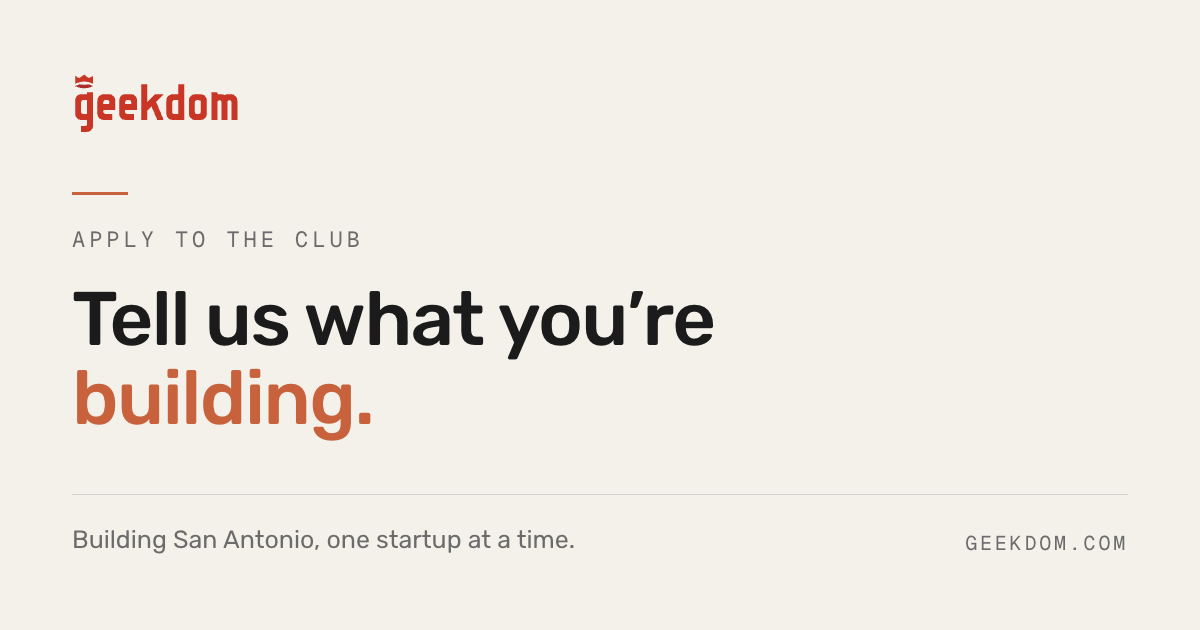
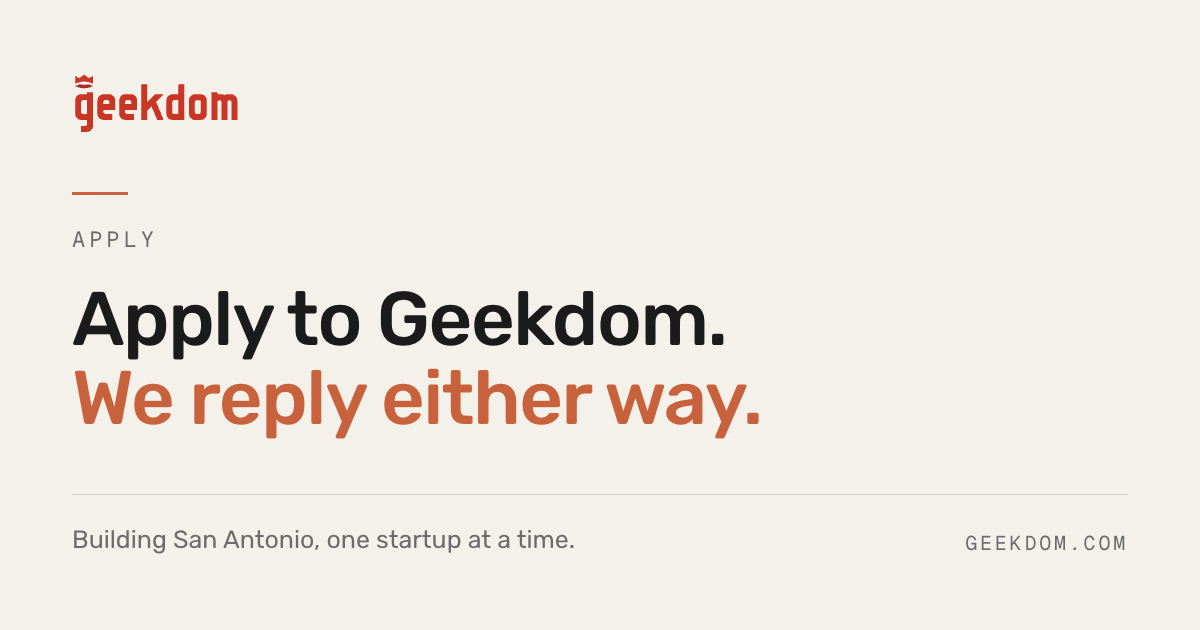
Bring /apply back to the source copy, square the fields, and fix the staff sign-in loop
/apply
- Header and opening are Source Copy v1 verbatim: "Apply to Geekdom.",
  the Fraunces sub-headline, and one paragraph. Removes the price, the
  explanation of why there's an application, and "five minutes" (the doc
  and /club say ten).
- Plainer form: "Your work" replaces "The part we actually read"; two
  written-here helper lines removed. The coworking checkbox stays — it
  feeds the admin view, the CSV export and the team email.
- Share card: "Apply to Geekdom. / We reply either way."

Fields
- Inputs, textareas, the combobox, the checkbox, the form error and the
  billing card are square, matching the buttons.

Staff sign-in
- proxy.ts no longer sends /admin/login to /admin on a cookie's presence
  alone. With an expired or revoked cookie that looped with the admin
  layout's redirect forever. The login page now verifies the session
  itself before skipping the form.

Changed region(s): [[0.0617, 0.4524, 0.6475, 0.6937], [0.1542, 0.3619, 0.3083, 0.3921]]

diff --git a/app/(site)/apply/page.tsx b/app/(site)/apply/page.tsx
@@ -7,7 +7,7 @@ import {
 } from "@/components/site/section";
 import { cn } from "@/lib/utils";
 import { ApplyForm } from "@/components/forms/apply-form";
-import { isPriceAnnounced, priceLabel } from "@/lib/membership";
+import { Editorial } from "@/components/site/editorial";
 
 export const metadata: Metadata = pageMetadata({
   ownCard: true,
@@ -20,48 +20,32 @@ export const metadata: Metadata = pageMetadata({
 export default function ApplyPage() {
   return (
     /*
-      NO MARK BESIDE THE FORM, and /apply is the page that corrected the rule
-      rather than the page that follows it.
-
-      The rule as first written was "the rail is for short task pages", and it
-      named this one. Two measurements say otherwise. The form is FOURTEEN
-      FIELDS, and the page's own subtitle promises it takes five minutes. The
-      shader was a requestAnimationFrame loop — it never settled. (The rail
-      is a flat mark now, but a form still wants the full width.)
-
-      SO THE DISTINCTION IS NOT LENGTH, IT IS WHETHER A PAGE HOLDS YOU. The 404
-      and the admin login are glanced at and left; a mark in dead space there
-      costs nobody anything. A form keeps somebody STATIONARY for minutes,
-      typing, with an animation looping in the corner of their eye — and this
-      is the one page on the site where that attention converts. It is the
-      worst possible place to put a competing moving object.
-
-      MOVING IT RIGHT WOULD NOT HELP, for the same reason it did not on the
-      letter. A right rail interrupts reading less because it falls after the
-      text, but nothing about peripheral motion over five minutes changes by
-      swapping which side it loops on.
-
-      And every instance of it is still borrowed against a sign-off the 2026
-      guide has not given: it bans gradients on the marks outright.
-
-      THE EYEBROW NAMES THE CLUB, because the page never did. The nav lists The
-      Club, Studio and Apply as peers, and /studio sends people here by name —
-      "come to a public event and apply to the Club" — while the word "Club"
-      appeared once in the rendered page, in the navbar. The Studio has no
-      application at all, so somebody arriving from it needs confirming they
-      are in the right place rather than inferring it from the price.
+      NO MARK BESIDE THE FORM. The 404, /account and the staff sign-in carry
+      a mark in a side rail; this page doesn't, because a fourteen-field form
+      keeps somebody here for ten minutes and wants the whole width and
+      nothing else in view.
     */
     <Section tone="bone">
+      {/*
+        THE SOURCE COPY'S HEADER AND OPENING, VERBATIM: eyebrow "APPLY",
+        headline "Apply to Geekdom.", the Fraunces sub-headline, and one
+        paragraph. It had been replaced with lines written here — "Tell us what
+        you're building", an explanation of why there's an application (which
+        Geekdom asked not to give), "about five minutes" (the doc and /club
+        say ten), and the price, which now lives only on /club.
+      */}
       <header className="mb-12 max-w-3xl">
-        <Eyebrow>Apply to the Club</Eyebrow>
+        <Eyebrow>Apply</Eyebrow>
         <h1 className={cn("mt-4", HEADING.heading, "text-graphite")}>
-          Tell us what you&rsquo;re <span className="text-clay">building.</span>
+          Apply to <span className="text-clay">Geekdom.</span>
         </h1>
-        <p className="mt-5 max-w-lg text-lg leading-relaxed text-muted-foreground">
-          Who&rsquo;s in the room is the whole point, so we read every
-          application properly. This takes about five minutes.
-          {isPriceAnnounced() &&
-            ` Membership is ${priceLabel()} — nothing is charged until you're accepted.`}
+        <Editorial className="mt-5 text-2xl leading-[1.4] text-graphite">
+          Membership is by application. We respond within two weeks.
+        </Editorial>
+        <p className="mt-6 max-w-lg text-lg leading-relaxed text-muted-foreground">
+          Geekdom is a members&rsquo; club for serious founders and builders
+          in San Antonio. The application takes about ten minutes. Our team
+          reads every application. We reply personally either way.
         </p>
       </header>
 

diff --git a/components/forms/apply-form.tsx b/components/forms/apply-form.tsx
@@ -150,9 +150,8 @@ export function ApplyForm() {
           {/*
             "WHO YOU ARE", NOT "YOU".
 
-            The three legends run You / Your company / The part we actually
-            read. The third has a voice; the first two were labels, and "You"
-            on its own is the thinnest of them — a pronoun where the others are
+            The legends run Who you are / Your company / Your work. "You" on
+            its own was the thinnest of them — a pronoun where the others are
             phrases.
 
             "Who you are" is the question the fields actually ask, it is
@@ -264,11 +263,16 @@ export function ApplyForm() {
         </Field>
       </fieldset>
 
-      {/* ── The part we actually read ──────────────────────────────── */}
+      {/* ── Your work ──────────────────────────────────────────────── */}
       <fieldset className={SECTION}>
         <legend className={LEGEND}>
           <span aria-hidden="true" className="h-px w-10 shrink-0 bg-clay" />
-          <span className="shrink-0">The part we actually read</span>
+          {/*
+            "Your work", not "The part we actually read" — that had a voice,
+            and it implied the other sections go unread. Plain and parallel:
+            Who you are / Your company / Your work.
+          */}
+          <span className="shrink-0">Your work</span>
           <span aria-hidden="true" className="h-px flex-1 bg-border" />
         </legend>
 
@@ -276,7 +280,7 @@ export function ApplyForm() {
           label="What are you building?"
           htmlFor="building"
           error={errors.building}
-          hint="A couple of sentences is plenty. Plain language beats a pitch."
+          hint="A couple of sentences is plenty."
           required
         >
           <Textarea
@@ -294,7 +298,6 @@ export function ApplyForm() {
           label="What do you need from the room?"
           htmlFor="needs"
           error={errors.needs}
-          hint="Who would you want to be sitting next to, and why now?"
           required
         >
           <Textarea
@@ -302,7 +305,7 @@ export function ApplyForm() {
             name="needs"
             required
             aria-invalid={Boolean(errors.needs)}
-            aria-describedby={errors.needs ? "needs-error" : "needs-hint"}
+            aria-describedby={errors.needs ? "needs-error" : undefined}
           />
         </Field>
 
@@ -318,7 +321,7 @@ export function ApplyForm() {
           <input
             type="checkbox"
             name="formerMember"
-            className="mt-0.5 h-4 w-4 rounded border-border text-clay focus-visible:ring-2 focus-visible:ring-clay"
+            className="mt-0.5 h-4 w-4 rounded-none border-border text-clay focus-visible:ring-2 focus-visible:ring-clay"
           />
           {/*
             NO "BEFORE THE TRANSITION". The field is right and stays — the
@@ -362,7 +365,7 @@ export function ApplyForm() {
       {formError && (
         <p
           role="alert"
-          className="rounded-lg border border-geekdom-red/30 bg-geekdom-red/5 px-4 py-3 text-sm text-geekdom-red-deep"
+          className="border border-geekdom-red/30 bg-geekdom-red/5 px-4 py-3 text-sm text-geekdom-red-deep"
         >
           {formError}
         </p>

diff --git a/components/ui/combobox.tsx b/components/ui/combobox.tsx
@@ -196,7 +196,7 @@ export function Combobox({
         onClick={() => (open ? close() : openList())}
         onKeyDown={onKeyDown}
         className={cn(
-          "flex h-11 w-full items-center justify-between rounded-lg border border-border bg-bone-light px-3.5 text-left text-base",
+          "flex h-11 w-full items-center justify-between rounded-none border border-border bg-bone-light px-3.5 text-left text-base",
           "focus-visible:outline-none focus-visible:ring-2 focus-visible:ring-clay focus-visible:ring-offset-1",
           "disabled:cursor-not-allowed disabled:opacity-50",
           invalid && "border-clay ring-1 ring-clay",
@@ -213,7 +213,7 @@ export function Combobox({
       </button>
 
       {open && (
-        <div className="absolute z-50 mt-1 w-full overflow-hidden rounded-lg border border-border bg-bone-light shadow-lg">
+        <div className="absolute z-50 mt-1 w-full overflow-hidden border border-border bg-bone-light shadow-lg">
           {showSearch && (
             <div className="border-b border-border p-2">
               <input
@@ -226,7 +226,7 @@ export function Combobox({
                 onKeyDown={onKeyDown}
                 placeholder={searchPlaceholder}
                 aria-label={searchPlaceholder}
-                className="h-9 w-full rounded-md bg-transparent px-2 text-sm outline-none placeholder:text-muted-foreground"
+                className="h-9 w-full bg-transparent px-2 text-sm outline-none placeholder:text-muted-foreground"
               />
             </div>
           )}
@@ -258,7 +258,7 @@ export function Combobox({
                     onPointerEnter={() => setActive(i)}
                     onClick={() => commit(option)}
                     className={cn(
-                      "flex cursor-pointer items-center justify-between gap-3 rounded-md px-3 py-2 text-sm",
+                      "flex cursor-pointer items-center justify-between gap-3 px-3 py-2 text-sm",
                       i === active && "bg-bone-light",
                       isSelected && "font-medium text-graphite",
                     )}

diff --git a/app/admin/login/page.tsx b/app/admin/login/page.tsx
@@ -1,4 +1,6 @@
 import { Suspense } from "react";
+import { redirect } from "next/navigation";
+import { getSessionUser } from "@/lib/auth/session";
 import type { Metadata } from "next";
 import Link from "next/link";
 import { ArrowLeft } from "lucide-react";
@@ -10,7 +12,16 @@ export const metadata: Metadata = {
   robots: { index: false, follow: false },
 };
 
-export default function LoginPage() {
+/*
+  A VERIFIED SESSION SKIPS THE FORM; A STALE ONE SEES IT. This check used to
+  live in proxy.ts, which can only see that a cookie exists — so an expired
+  cookie bounced between here and /admin forever. `getSessionUser()` verifies
+  it (and returns null rather than throwing when it can't), so only a real
+  session is sent inside. Signing in again overwrites the stale cookie.
+*/
+export default async function LoginPage() {
+  if (await getSessionUser()) redirect("/admin");
+
   return (
     <main className="flex-1 bg-bone">
       {/*

diff --git a/lib/og.ts b/lib/og.ts
@@ -119,15 +119,12 @@ export const OG_CARDS: Record<string, OgCard> = {
 
 
   apply: {
-    eyebrow: "Apply to the Club",
-    /*
-      THE PAGE'S OWN H1. It said "working on." while the h1 said "building." —
-      the same sentence ending two different ways, shown side by side in every
-      unfurl and search result. Neither was wrong; having both was.
-    */
-    lines: ["Tell us what you\u2019re", "building."],
+    eyebrow: "Apply",
+    // The source copy's headline, then its sub-headline cut to fit. The card
+    // and the page must not make two different claims side by side.
+    lines: ["Apply to Geekdom.", "We reply either way."],
     out: "app/(site)/apply/opengraph-image.png",
-    alt: "Apply to the Club at Geekdom — one membership, by application, on the third floor in San Antonio.",
+    alt: "Apply to Geekdom — membership is by application, and we respond within two weeks.",
   },
 
 

diff --git a/proxy.ts b/proxy.ts
@@ -26,10 +26,16 @@ export function proxy(request: NextRequest) {
     return NextResponse.redirect(url);
   }
 
-  // Already signed in and hitting the login page — send them inside.
-  if (hasSession && isLogin) {
-    return NextResponse.redirect(new URL("/admin", request.url));
-  }
+  /*
+    NO "ALREADY SIGNED IN? GO INSIDE" RULE HERE, and there must not be one.
+    This redirected /admin/login to /admin whenever a cookie EXISTED — but
+    existing is all the proxy can see. An expired or revoked cookie passed
+    here, failed real verification in the admin layout, got sent to
+    /admin/login, and bounced straight back: an infinite redirect loop that
+    the browser reports as a page that won't load, for exactly the staff who
+    had signed in before. The login page now makes that call itself, after
+    verifying the session (app/admin/login/page.tsx).
+  */
 
   return NextResponse.next();
 }

diff --git a/components/ui/field.tsx b/components/ui/field.tsx
@@ -13,7 +13,9 @@ import * as React from "react";
 import { cn } from "@/lib/utils";
 
 const control = cn(
-  "w-full rounded-lg border border-border bg-bone-light px-3.5 text-base text-graphite",
+  // Square, like the buttons beside them — Geekdom: "No rounded corners...
+  // 90 degrees." A rounded field over a square submit read as two systems.
+  "w-full rounded-none border border-border bg-bone-light px-3.5 text-base text-graphite",
   "placeholder:text-muted-foreground",
   "focus-visible:outline-none focus-visible:ring-2 focus-visible:ring-clay focus-visible:ring-offset-1",
   "disabled:cursor-not-allowed disabled:opacity-50",

diff --git a/components/forms/billing-form.tsx b/components/forms/billing-form.tsx
@@ -48,7 +48,7 @@ export function BillingForm() {
     return (
       <div
         role="status"
-        className="rounded-xl border border-border bg-bone-light p-7"
+        className="border border-border bg-bone-light p-7"
       >
         <h2 className="text-xl font-medium text-graphite">Check your inbox.</h2>
         <p className="mt-3 leading-relaxed text-muted-foreground">

diff --git a/AGENTS.md b/AGENTS.md
@@ -238,6 +238,20 @@ same page runs as "15 years of Geekdom".
   token. It was a WebGL shader flowing color through the mark, which the guide
   bans; see the marks rule under Design system.
 
+## /apply
+
+- **The header and opening are the source copy, verbatim:** "Apply to
+  Geekdom.", the Fraunces line "Membership is by application. We respond
+  within two weeks.", and one paragraph ("about ten minutes"). No price and no
+  explanation of why there's an application — Geekdom asked for neither.
+- **The form is custom, and the doc asks for Typeform + Airtable.** It stays
+  custom pending Geekdom's call, because it feeds the whole membership
+  pipeline: admin review → acceptance email → Stripe checkout → the webhook
+  that creates the member. A Typeform embed sits outside all of that.
+- **`formerMember` ("I was a Geekdom coworking member.") is load-bearing** —
+  it reaches the admin detail view, the CSV export and the team email. Don't
+  drop the checkbox without replacing that signal.
+
 ## Share cards and metadata
 
 - **Cards are Bone, type-led, and carry no shader.** `npm run og` photographs
@@ -288,6 +302,12 @@ easing in or the page gliding, wanted both. They are two separate mechanisms:
   lives in [proxy.ts](proxy.ts) **and** is re-verified in the admin layout, in
   every admin route handler, and in every server action — the proxy only checks
   that a cookie *exists*, never that it's valid. Don't treat it as the gate.
+
+  **And never let it redirect on the cookie's presence alone.** It used to
+  send `/admin/login` to `/admin` whenever a cookie existed; with an expired
+  or revoked cookie that looped with the layout's redirect forever, and
+  "Staff sign in" looked like a page that wouldn't load. The login page now
+  verifies the session itself before skipping the form.
 
 - **Every third-party client is constructed lazily, on purpose.** Firebase
   Admin, the Firebase browser SDK, Stripe, and Resend each **throw at
